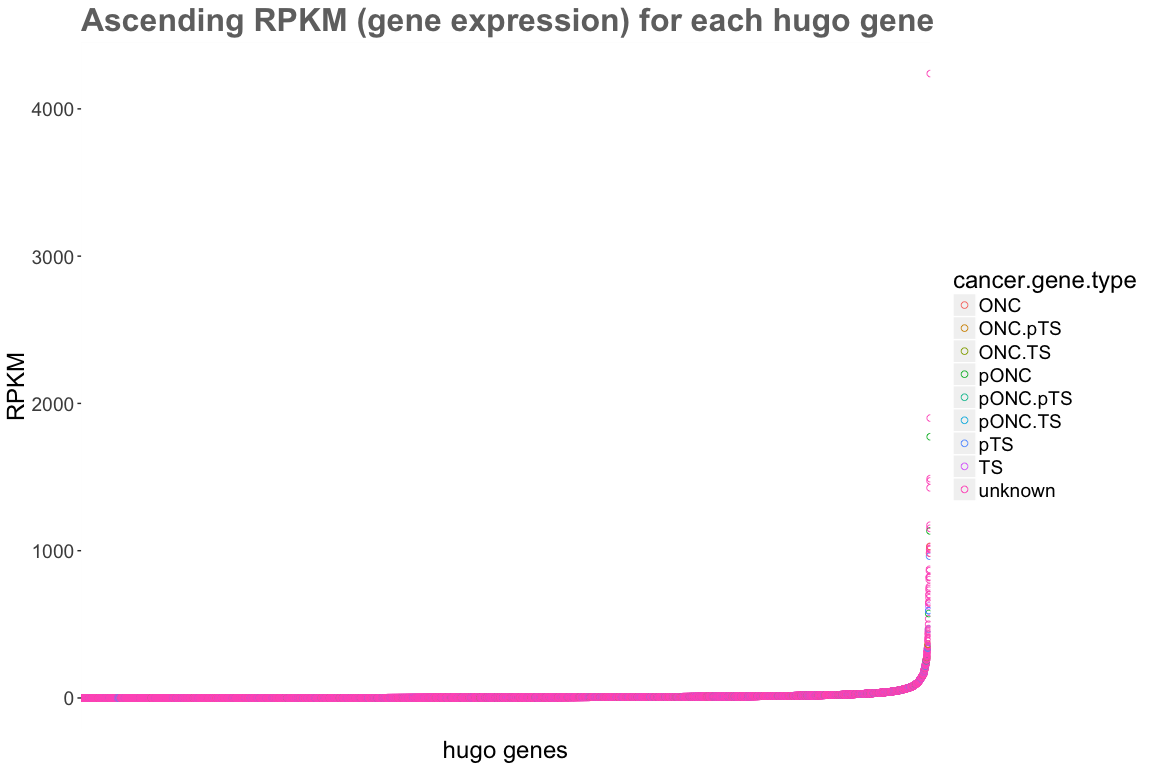
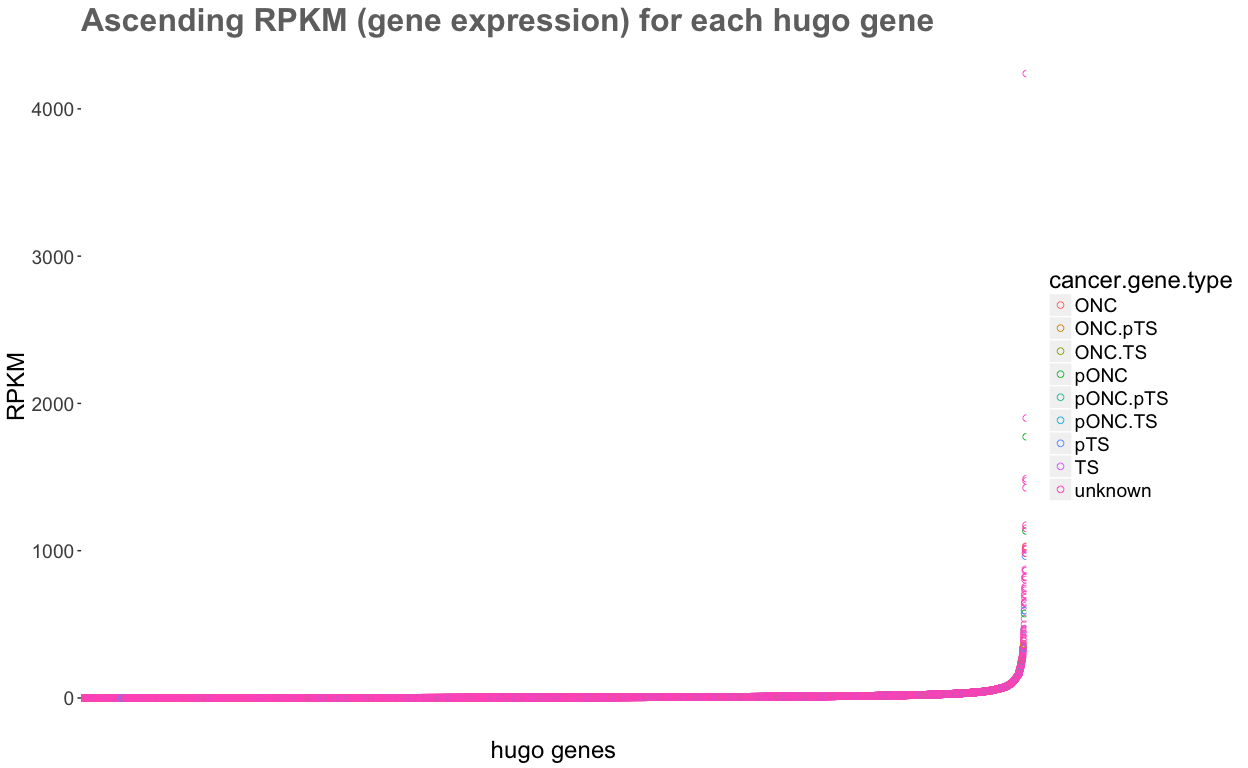
update

diff --git a/stat545-hw5-thibodeau-mylinh/stat545-hw05-thibodeau-mylinh.md b/stat545-hw5-thibodeau-mylinh/stat545-hw05-thibodeau-mylinh.md
@@ -8,7 +8,7 @@ suppressPackageStartupMessages(library(plyr))
 suppressWarnings(suppressMessages(library(dplyr)))
 suppressPackageStartupMessages(library(tidyverse))
 suppressWarnings(library(tidyverse))
-knitr::opts_chunk$set(fig.width=12, fig.height=8)
+knitr::opts_chunk$set(fig.width=13, fig.height=8)
 suppressWarnings(suppressMessages(library(knitr)))
 suppressWarnings(suppressMessages(library(kableExtra)))
 suppressWarnings(options(knitr.table.format = "markdown"))
@@ -834,13 +834,13 @@ d0 %>%
 
 ![](stat545-hw05-thibodeau-mylinh_files/figure-markdown_github-ascii_identifiers/unnamed-chunk-18-1.png)
 
-**Note 1.** The reason why the factors are not the same than illustrated in the previous example is because I only selected the first 2000 data entries and the factors were already ordered in ascending fashion in the d2 dataset.
+**Note 1.** I know it's a bit difficult to read all the factors, but I wanted to give an overview of individual percentile value as a factor, and in the next homework, I am hoping to learn how to group the values according to a range into bins to make more informative plots.
 
 Resources:
 
--   Stack overflow example for cut [here](https://stackoverflow.com/questions/40380112/categorize-continuous-variable-with-dplyr)
 -   Examples of forcats [here](https://blog.rstudio.com/2016/08/31/forcats-0-1-0/)
 -   The most useful resource is from stat545 [here](http://stat545.com/block029_factors.html)
+-   Stack overflow example for cut [here](https://stackoverflow.com/questions/40380112/categorize-continuous-variable-with-dplyr), but I did not end up using this function in the end.
 
 (1D) Characterize the (derived) data before and after your factor re-leveling
 -----------------------------------------------------------------------------
